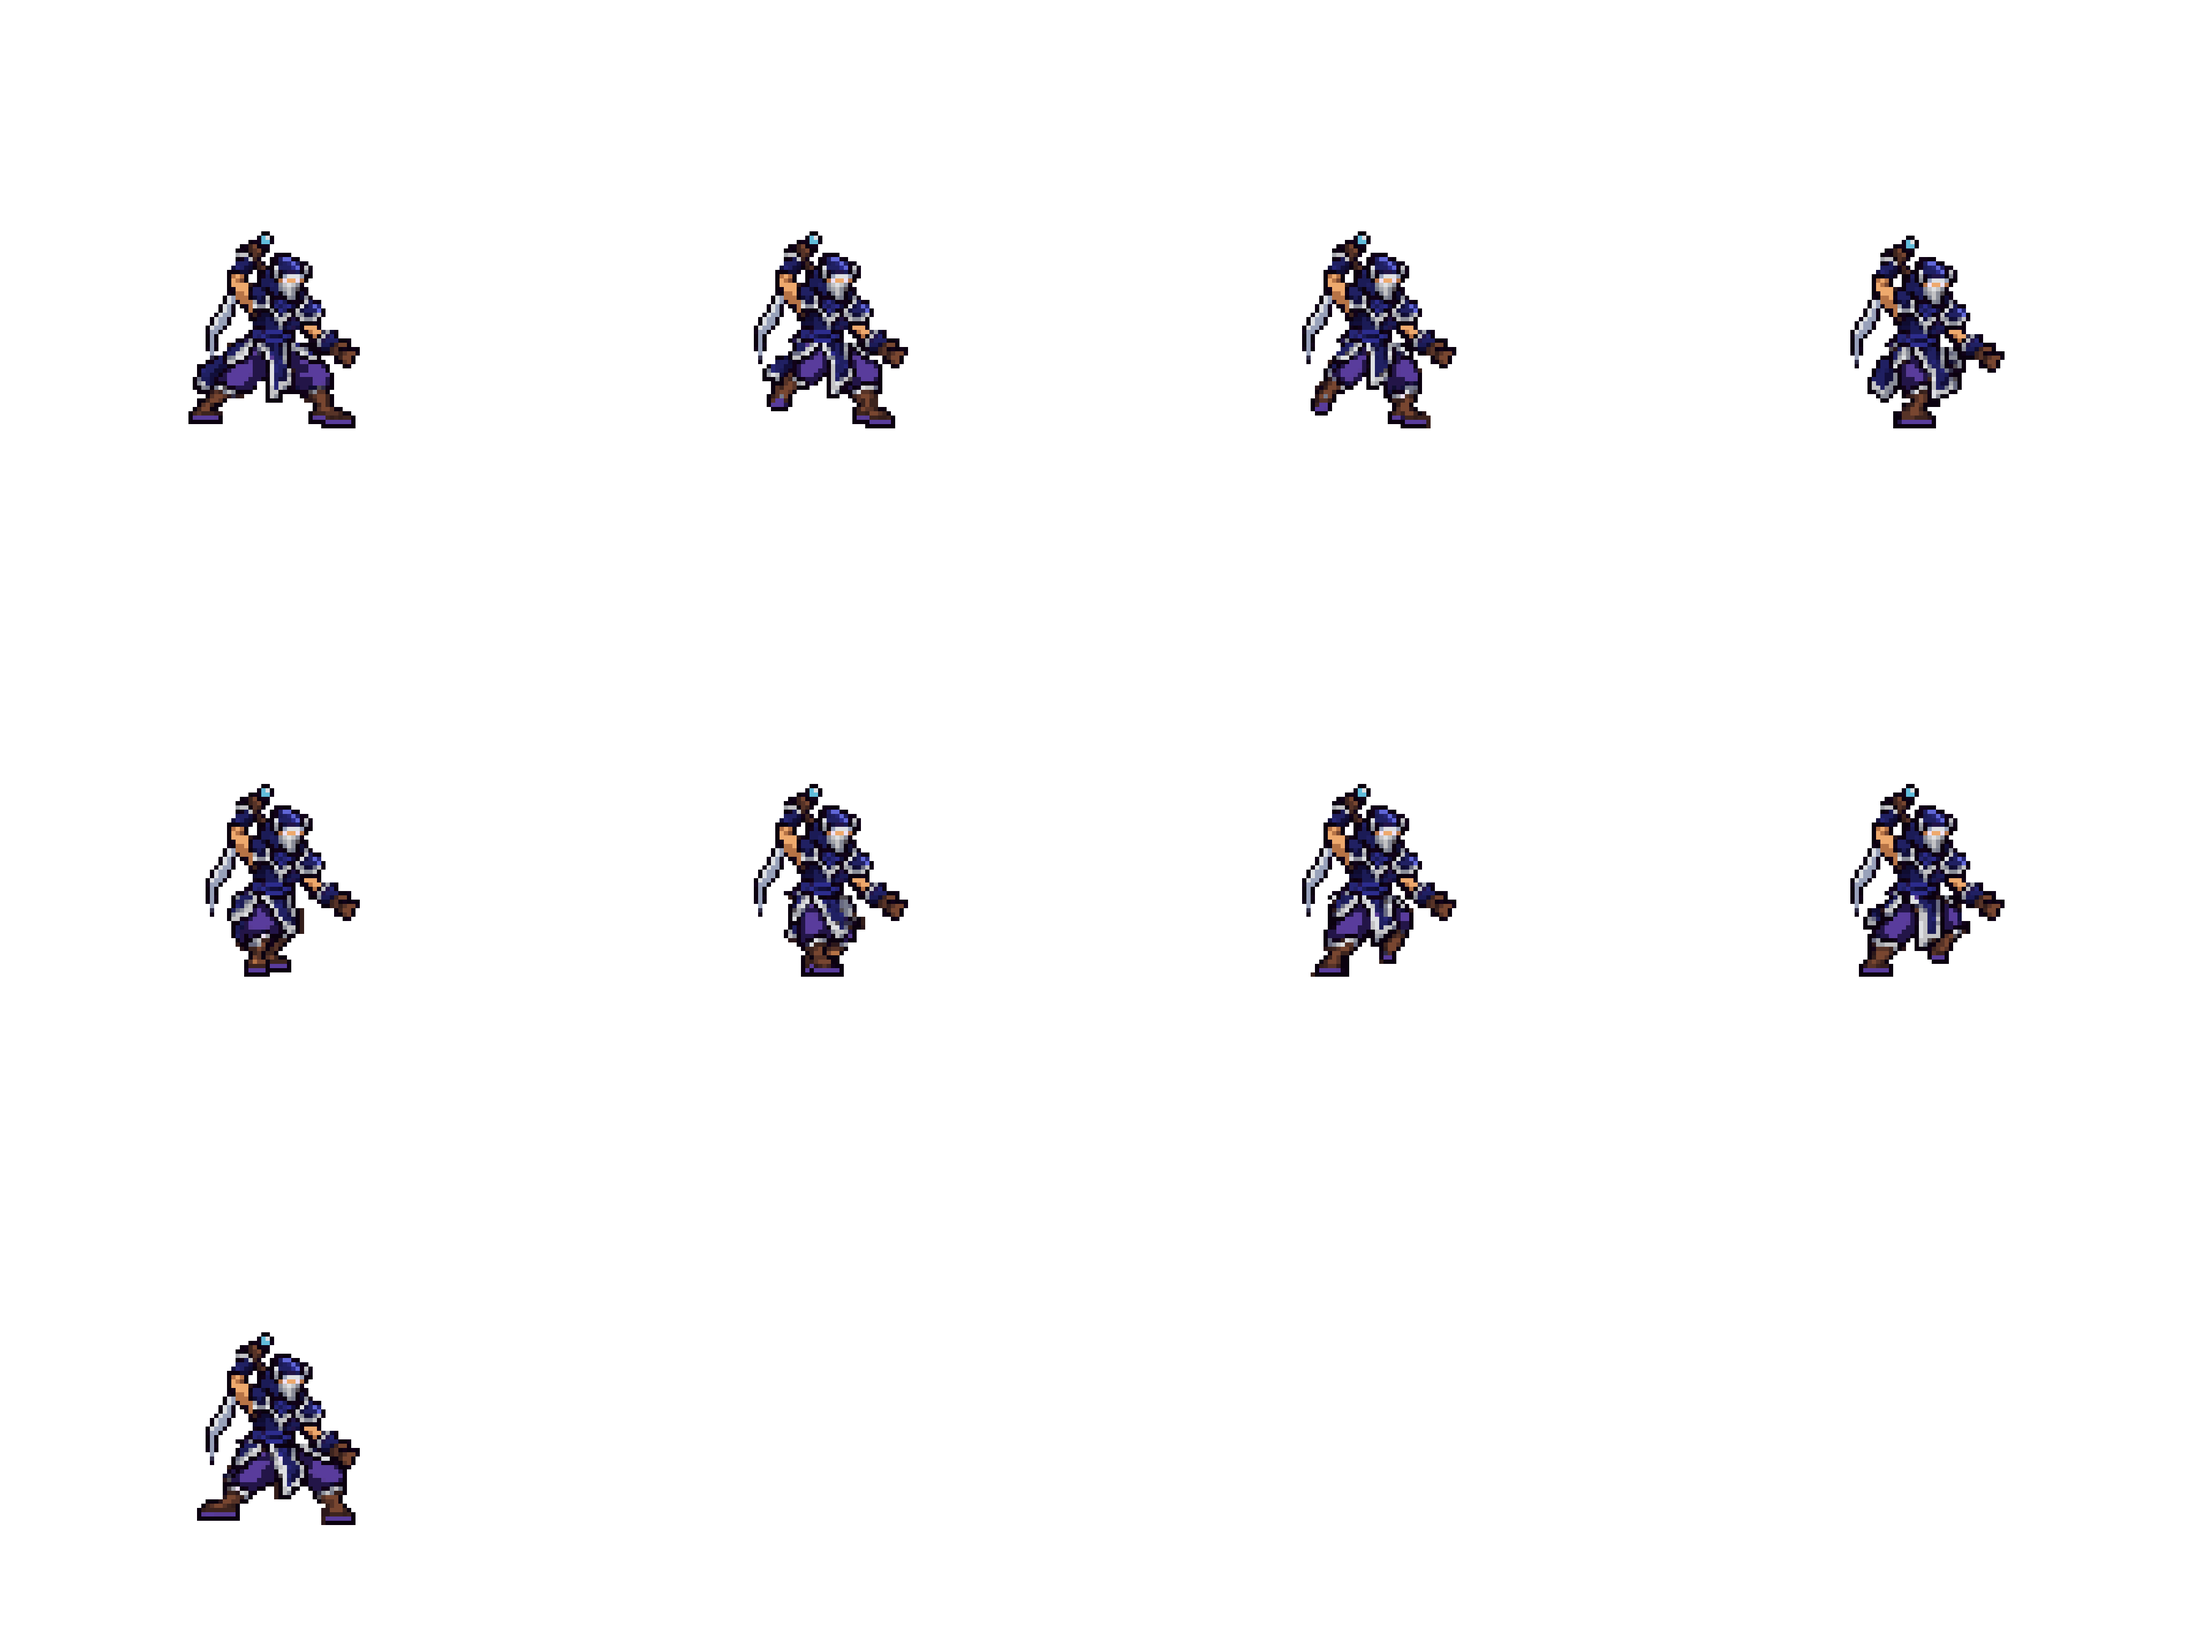
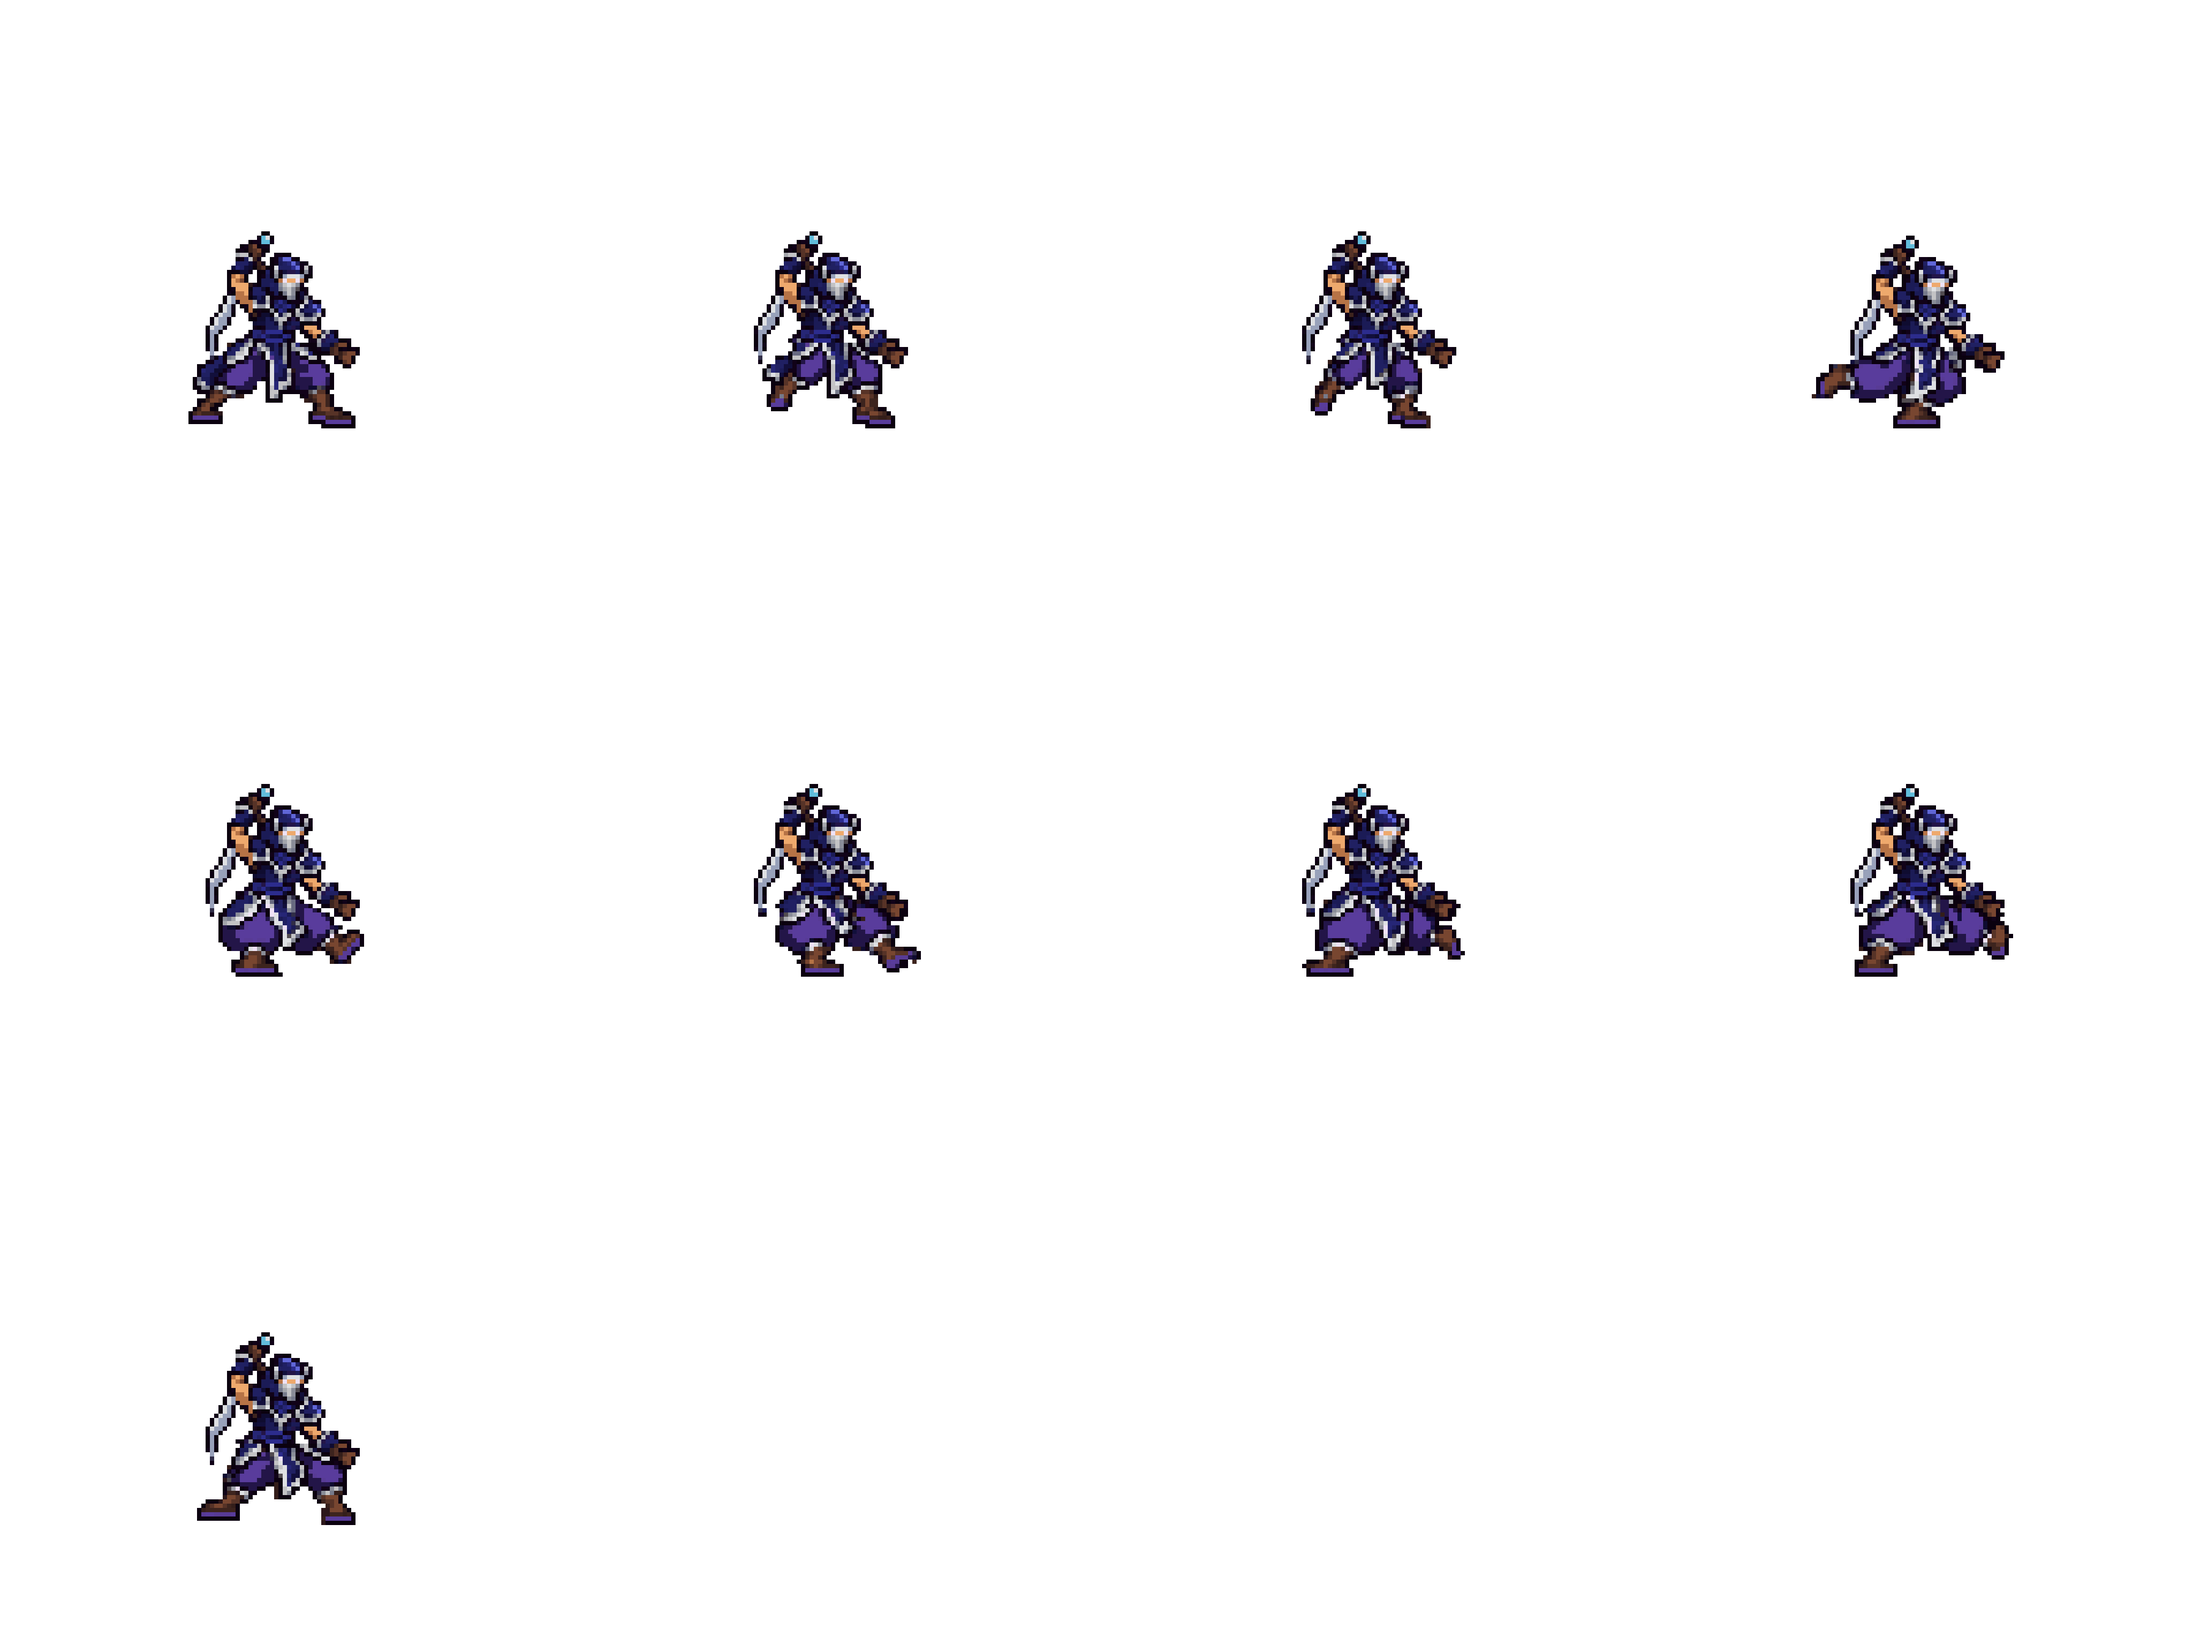
Shen (#85): run frames 4-8 with two whole hakama legs (Codex's second pass)
Codex's swap had squeezed both legs into one cone in the passing frames (12-17 wide
against the design's 27, one trouser, one boot). Its second pass redrew frames 4-8
below the sash: two trousers and two boots in every frame; 1-3 and 9 unchanged.

diff --git a/tools/art/fix_shen_strips.py b/tools/art/fix_shen_strips.py
@@ -54,7 +54,9 @@ CANVAS_SQUARE = 1254 / 128
 # colours, the soles on the cell's row RUN_SOLES, the cell's middle column where the pack put the design's feet middle.
 # (The first run moved the design's own legs whole under the body: the wide stance could not cross - the hakama
 # bulbs hid behind the apron or rose into the sash; the user: 「腿变形严重了 交叉步也不对」.)
-RUN_SHEET = os.path.join(ROOT, "assets", "source", "shen", "codex_run_swap", "shen_run_3x3_1x.png")
+# legs_fix/: Codex's second pass - frames 4-8 squeezed both hakama legs into one cone (12-17 wide, one trouser, one
+# boot; the design's are 27 wide): redrawn below the sash with two whole legs and two boots, frames 1-3 and 9 kept
+RUN_SHEET = os.path.join(ROOT, "assets", "source", "shen", "codex_run_swap", "legs_fix", "shen_run_fix_3x3_1x.png")
 RUN_CELL, RUN_SOLES = 60, 55
 # The user kept Codex's legs and asked for the design's upper body (「腿部ok的 上半身用之前的」): the design down to its
 # sash (rows <= DES_SASH; its arms hang lower: the sword arm to row 84 at columns <= ARM_COL, the near hand per row

diff --git a/assets/source/shen/codex_run_swap/legs_fix/PROMPT_redo.md b/assets/source/shen/codex_run_swap/legs_fix/PROMPT_redo.md
@@ -1,0 +1,19 @@
+# 慎 跑步 第 4–8 帧腿部重画
+
+上传顺序：图1 = `1_当前九帧_8倍.png`（要改的就是它），图2 = `2_角色_慎定稿.png`，图3 = `3_问题标注.png`，图4 = `4_动作参考_李青4-8帧.png`（只参考腿的动作）。
+`1_当前九帧_1x.png` 是图1 的原尺寸（180×180，每格 60×60，脚底在第 55 行），交回时用同样的格式。
+
+---
+
+图1 是慎的 9 帧跑步（3×3，从左到右、从上到下）。**第 1、2、3、9 帧不要动。只重画第 4、5、6、7、8 帧腰带以下的腿。**
+
+问题（见图3）：第 4–6 帧两条灯笼裤腿被挤成了一个窄锥形（只有 12–17 格宽，定稿是 27 格），只剩一块裤腿、一只靴子；第 7–8 帧后面那条裤腿只剩 4–6 格。
+
+要求：
+1. **腰带和腰带以上完全不动**（头、面罩、双臂、背上的刀、腰带，逐格照图1）。只画腰带下面：前后两片裙摆、两条紫色灯笼裤腿、两只棕色靴子。
+2. **两条腿都要完整**：每条裤腿都是定稿那样鼓起来的紫色灯笼裤（每条约 12 格宽、带深色描边和暗部），下面接一只完整的棕色高筒靴（紫色鞋底，大小和定稿的靴子一样，6–10 格宽）。两腿交错时**前腿盖住后腿的一部分，但后腿的裤腿和靴子都要看得见**（至少露出 7–8 格宽），不能并成一条。
+3. 动作照现在的帧和图4：第 4–6 帧是两腿从后往前交错换位（着地的腿在身体下面往后蹬，另一条腿弯膝从后面收到前面），第 7–8 帧前腿往前迈出去、后腿弯膝在后面。每帧着地那只脚的位置照图1 不变，脚底都在第 55 行。
+4. 和第 3 帧、第 9 帧接得上：裤腿和靴子的大小、颜色、画法和第 1–3、9 帧一样。
+5. 像素画：方块大小和图1 一样，只用定稿的 30 种颜色，1 像素深色描边，不要抗锯齿、不要渐变、不要模糊。
+
+交回：`shen_run_fix_3x3_1x.png`（180×180 透明底，9 帧全在，第 1–3、9 帧和图1 原样一致）+ 8 倍绿底版 + 生图原稿 + `HANDOFF.md`（最后写）。请用生图画，不要用代码拼方块。

diff --git a/assets/source/shen/codex_run_swap/legs_fix/HANDOFF.md b/assets/source/shen/codex_run_swap/legs_fix/HANDOFF.md
@@ -1,0 +1,22 @@
+# 慎跑步第4–8帧腿部重画交付
+
+交付完成。使用内置 image_gen 进行两轮腿部重画；原始生图均保存于 raw/，提示词保存于 prompts.json。第二轮加宽两条裤腿、增加后腿可见部分，并补全两只靴子。本次以用户新包的当前九帧为底稿。
+
+交付文件：
+- shen_run_fix_3x3_1x.png：180×180透明底，九帧3×3，每格60×60。
+- shen_run_fix_3x3_green_8x.png：1440×1440纯绿色 #00FF00 版，严格8倍最近邻放大。
+- shen_run_fix_3x3_transparent_8x.png：相同尺寸的透明版。
+- frames/：九张480×480单帧。
+- previews/run.gif：九帧循环预览，100ms/帧，仅为预览速度。
+- raw/：两轮生图原稿，未经修改。
+- reference_original_1x.png：本次提供的原始九帧。
+- manifest.json、qa.json：登记和校验记录。
+- export_run_legs_fix.py：可复现的导出整理脚本。
+
+本地脚本只处理生图的像素采样、调色板归一、透明背景、定位与原图保护区域恢复，没有用代码绘制替代裤腿或靴子。沿用用户之前对严格导出副本的授权，原稿保持不变。
+
+通过检查：第1、2、3、9帧完整RGBA逐像素不变；第4–8帧本地第0–36行含腰带完全不变，低于腰带的原刀刃和右臂/手套像素也保持原样；角色颜色只使用定稿30色；透明度仅0/255；8倍版方块严格8×8；九帧最低脚底均在本地第55行。
+
+重画腿部以腰带和着地脚中心定位。着地靴由于补全宽度，横向轮廓范围有变化；中心取整误差至多半个逻辑像素，详细坐标见 manifest.json。动作参照原图，膝踝不是逐像素复刻。目视检查已确认第4–8帧两条宽裤腿和两只靴子可分别辨认，未进行游戏内测试。
+
+保留旧版本，本次另存为独立交付包。
